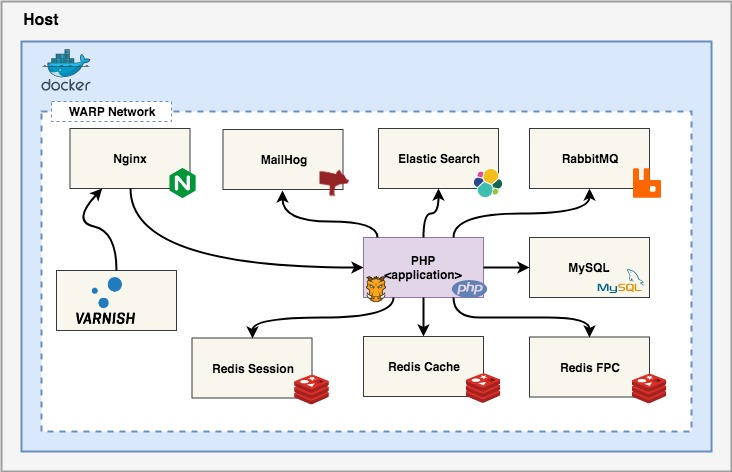
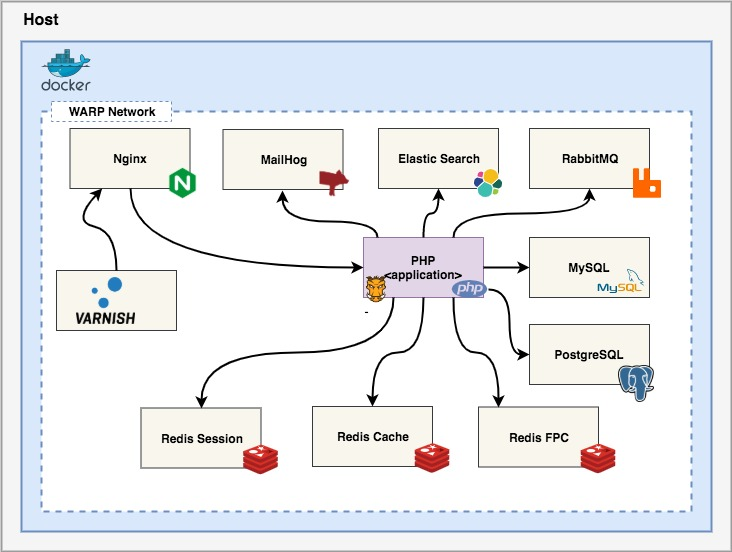
add PostgreSQL service

diff --git a/CHANGES.md b/CHANGES.md
@@ -1,6 +1,12 @@
 Warp Releases
 =============
 
+### [2019.10.07](https://github.com/SummaSolutions/warp-engine/releases/tag/2019.10.07)
+
+* add PostgreSQL service 
+* update image PHP to 7.1.32
+* disable ionCube by default
+
 ### [2019.09.17](https://github.com/SummaSolutions/warp-engine/releases/tag/2019.09.17)
 
 * fix command init
@@ -17,7 +23,7 @@ Warp Releases
 
 * add Varnish service v4.0.5, v5.2.1
 * add Selenium service
-* add postgress module on image PHP 7.1.17-fpm, 7.1.26-fpm
+* add postgres module on image PHP 7.1.17-fpm, 7.1.26-fpm
 * add ionCube to PHP 7.0-fpm, 5.6-fpm
 * add plugin delete-by-query on image elasticsearch 2.4
 * add plugin x-delayer on image Rabbit
